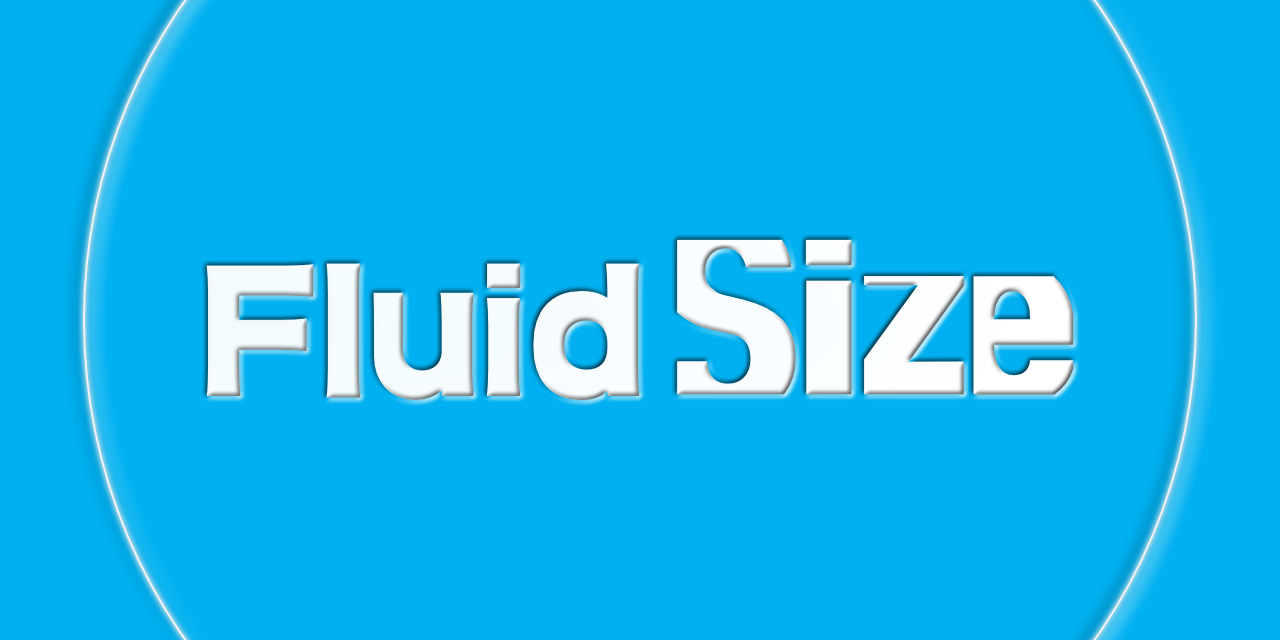
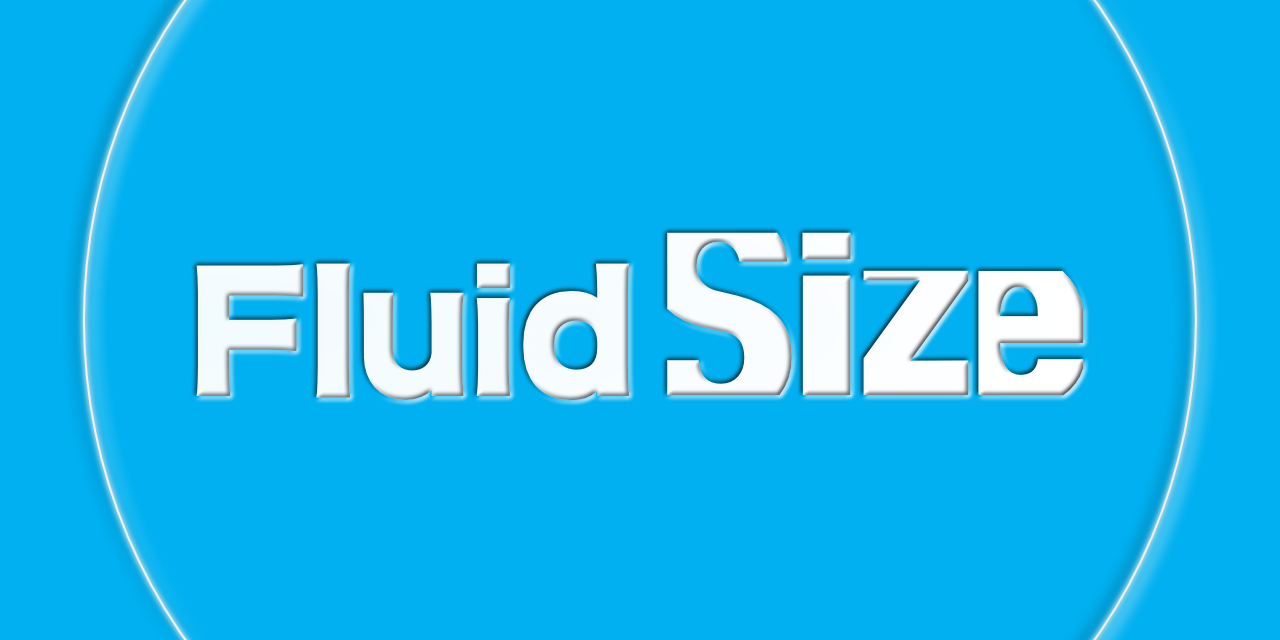
Fix: font size

Changed region(s): [[0.125, 0.3438, 0.875, 0.6562]]

diff --git a/resource/README.md b/resource/README.md
@@ -1,3 +1,8 @@
+## Photo Editor Info
+
+- [Affity Photo](https://affinity.serif.com/en-gb/photo/):  File extension `.afphoto`
+
 ## Font Info
-- `Fluid`: Sandoll 청류 `165pt`
-- `Size`: Rix 프레임 `200pt`
+
+- `Fluid`: [Sandoll 청류](https://www.sandollcloud.com/font/Sandoll/505.html) `165pt`
+- `Size`: [Rix 프레임](https://www.sandollcloud.com/font/FontRix/1049.html) `210pt`
